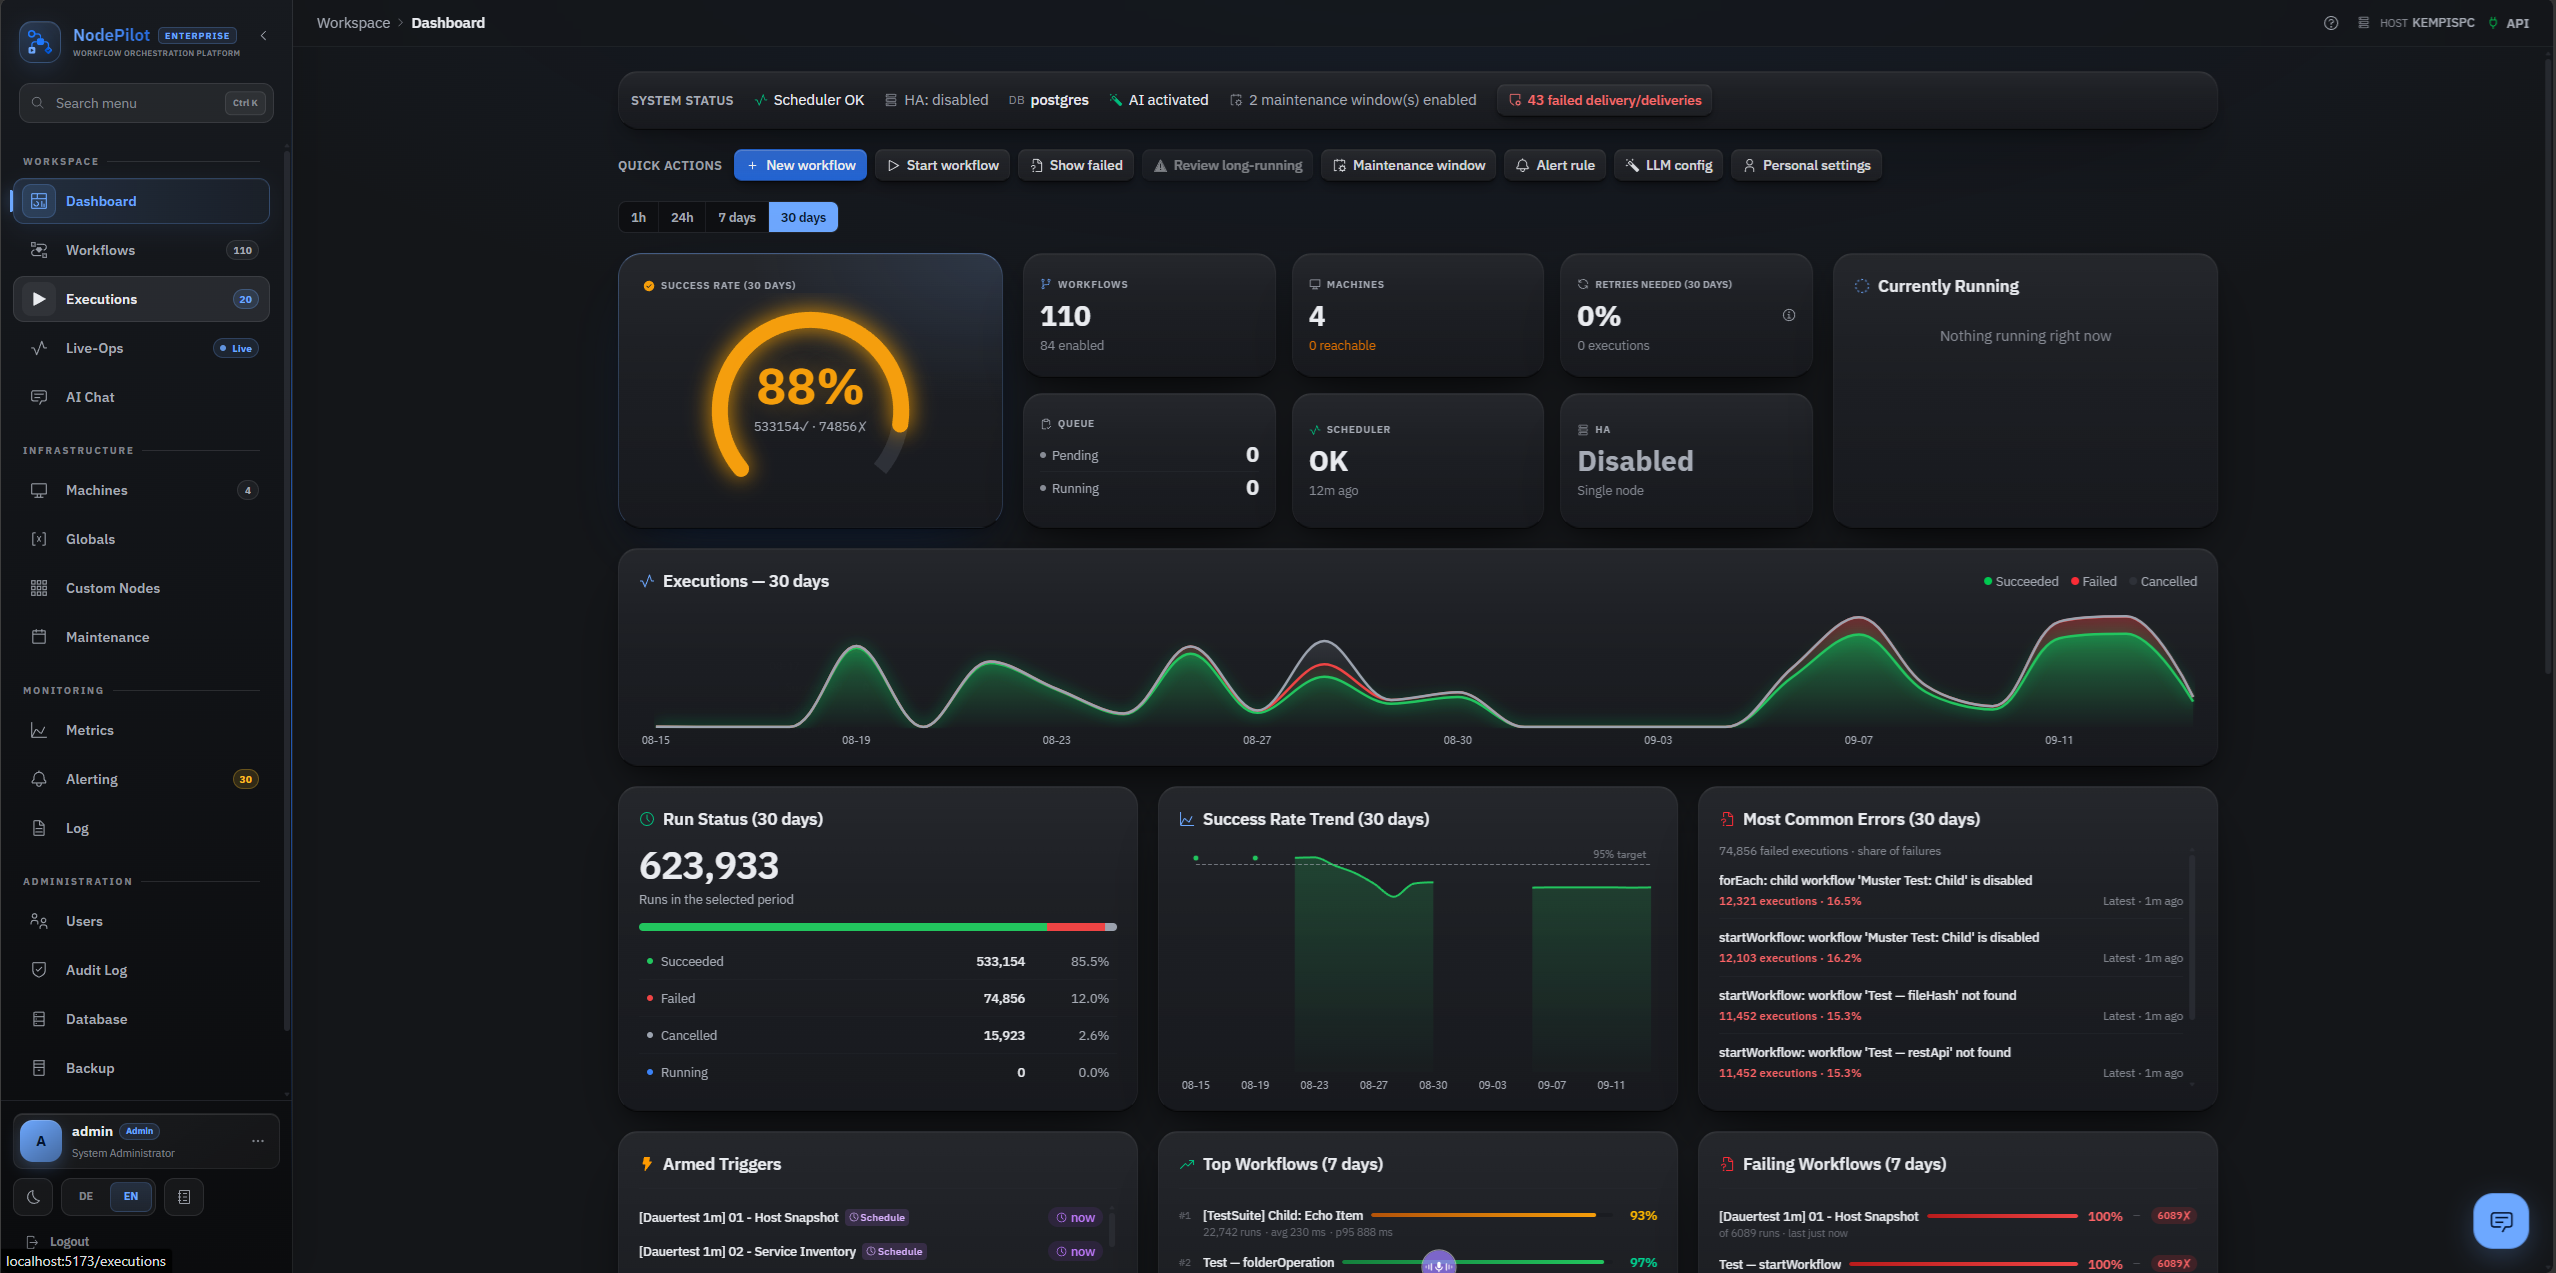
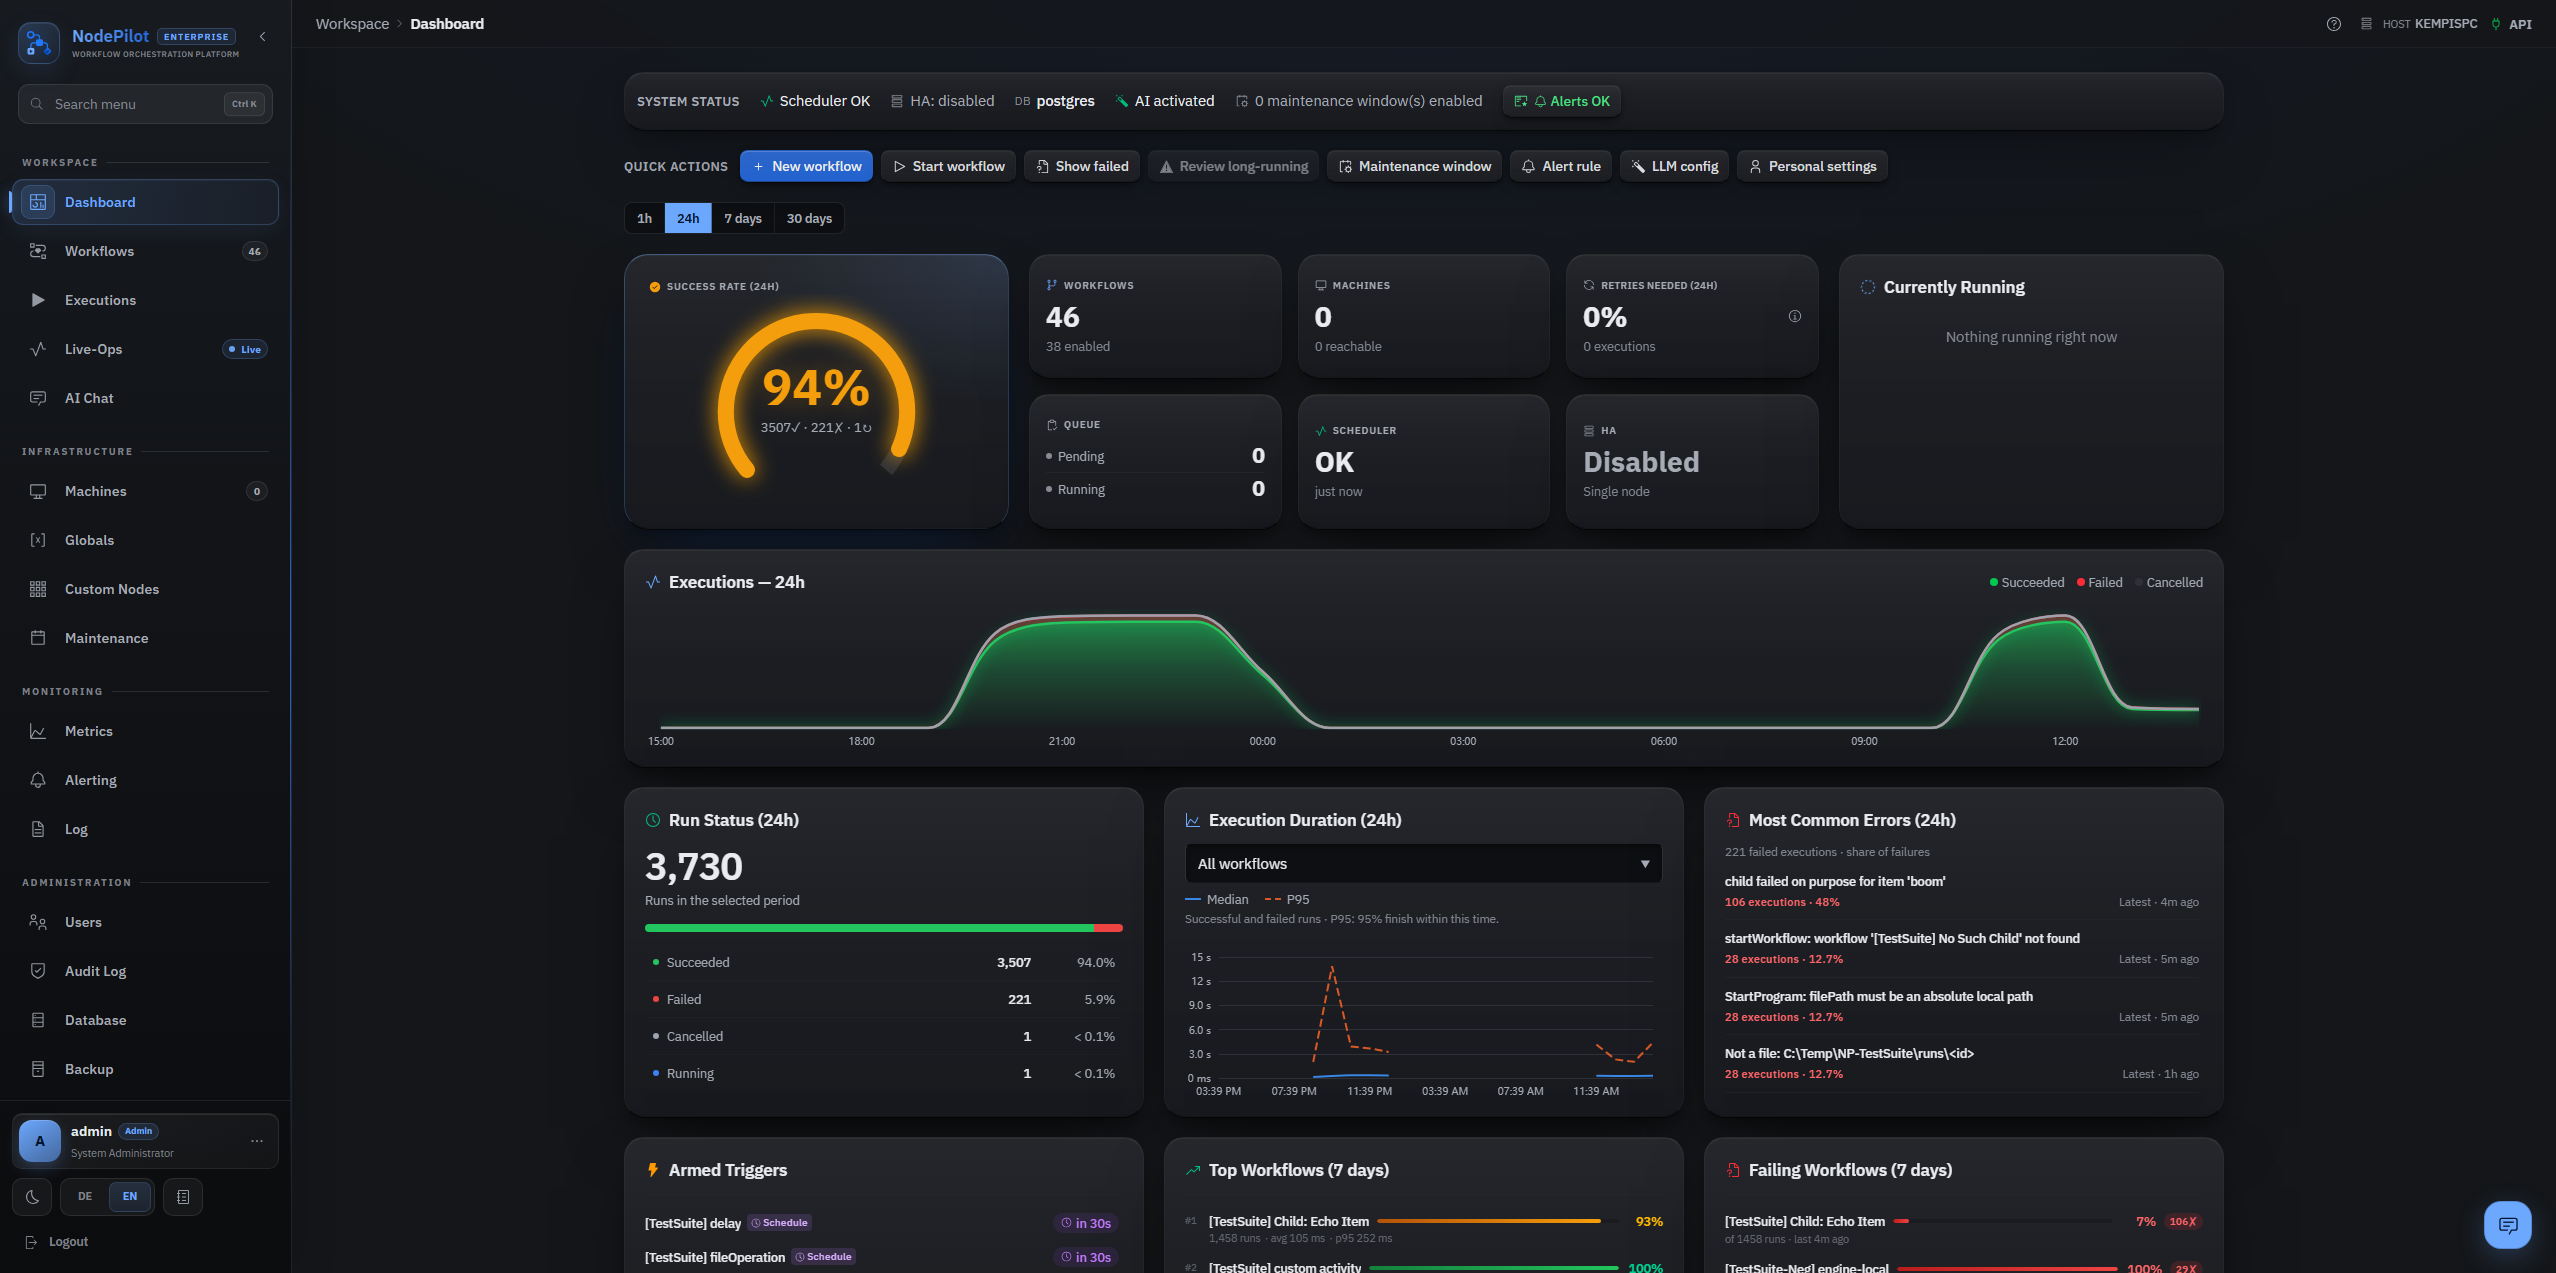
Refresh the dashboard screenshot and correct stale dashboard notes
The README screenshot still showed the success-rate trend that the execution-duration
percentiles replaced; image and alt text now show the current dashboard.

docs/claude-reference.md named a single 30-second TTL for DashboardAggregateCache. The shared
TTL is 150 seconds, and the duration trend is a third entry with its own two minutes. The same
section now describes the rollup's staleness check and bucket retention.

The summary of WorkflowListItemResponse had ended up above WorkflowNameItem, which carried two
summaries while the list item had none.

Refs #375, #381

diff --git a/src/NodePilot.Api/Dtos/WorkflowDtos.cs b/src/NodePilot.Api/Dtos/WorkflowDtos.cs
@@ -125,6 +125,14 @@ public record WorkflowResponse(
 }
 
 /// <summary>
+/// Id and display name only — for surfaces that resolve or offer workflow names without rendering
+/// anything else about them, such as the executions filter. The full list item costs a window
+/// query over execution history, a per-folder permission lookup and a definition-facts resolve,
+/// none of which a name dropdown uses.
+/// </summary>
+public record WorkflowNameItem(Guid Id, string Name);
+
+/// <summary>
 /// One row of <c>GET /api/workflows</c>.
 ///
 /// <para>Everything <see cref="WorkflowResponse"/> carries except <c>DefinitionJson</c>. A
@@ -136,14 +144,6 @@ public record WorkflowResponse(
 /// the definition: whether starting this workflow asks the caller for input. False means it can
 /// be started straight away.</para>
 /// </summary>
-/// <summary>
-/// Id and display name only — for surfaces that resolve or offer workflow names without rendering
-/// anything else about them, such as the executions filter. The full list item costs a window
-/// query over execution history, a per-folder permission lookup and a definition-facts resolve,
-/// none of which a name dropdown uses.
-/// </summary>
-public record WorkflowNameItem(Guid Id, string Name);
-
 public record WorkflowListItemResponse(
     Guid Id, string Name, string? Description,
     int Version, bool IsEnabled, DateTime CreatedAt, DateTime UpdatedAt, string? CreatedBy, string? UpdatedBy)

diff --git a/docs/claude-reference.md b/docs/claude-reference.md
@@ -1181,9 +1181,9 @@ Der Rug ersetzt einen anteiligen Outcome-Stapel, der bei dieser Skala nicht funk
 
 **Dashboard-Query lädt keine Workflow-Definitionen.** Der Endpoint braucht nur Trigger-Metadaten und liest sie aus der denormalisierten Spalte `TriggerTypesJson`; die volle `DefinitionJson` wird ausschließlich für Workflows mit `scheduleTrigger`/`databaseTrigger` nachgeladen (Cron-Ausdruck bzw. Poll-Intervall stehen nur im Graphen). Definitionen sind unbegrenzter Text inklusive aller Inline-Skripte — im Repo-Beispielset 21–42 KB pro Workflow — und die Dashboard-Seite pollt den Endpoint alle 120 s, solange sie offen ist. Die drei Sidebar-Badges hängen **nicht** mehr daran: `useSidebarBadges` liest den eigenen Drei-Zahlen-Endpoint `GET /api/stats/sidebar-counts` (60-s-Poll, folder-gescopte `COUNT(*)`s ohne Zeilen-Materialisierung) — vorher zog die auf jeder Seite gerenderte Sidebar für drei Zahlen das ganze Dashboard-Aggregat. Eine `NULL`-Spalte (Zeile älter als der Boot-Backfill) fällt auf die Definition zurück, damit kein Workflow still aus der Armed-Liste fällt.
 
-**Dashboard-Aggregate sind gecacht, die Antwort nicht.** `DashboardAggregateCache` (Api-Singleton, TTL 30 s) hält die **fenster-skalierenden** Werte — Gesamtzahl, Stundenreihe, Retry-Quote, zusammengefasst in `DashboardHistoricalAggregates`, dazu `/stats/failure-causes` als eigener Eintrag (gemessen die teuerste Einzelabfrage: 3,4 s auf 30 Tagen, danach 0,01 s). Bewusst **kein** Response-Cache: dieselbe Antwort trägt Live-Zustand (laufende Läufe, Queue-Tiefe, Heartbeats) und einen **Admin-only Audit-Feed**, der an `User.IsInRole("Admin")` hängt — ein Eintrag über die ganze Antwort hätte einem Viewer den Feed des vorherigen Admin-Aufrufs geliefert (`DashboardCacheIsolationTests` pinnt das). Der Key trägt Fenster **und** Berechtigungszustand (`ScopeKey`: `all` vs. gehashte, sortierte Ordnerliste — Rechteentzug ändert den Key und wirkt damit sofort). Parallele Misses teilen sich **eine** Berechnung, und die läuft in einem **eigenen DI-Scope**: der auslösende Request darf abbrechen und seinen DbContext entsorgen, während andere noch warten. Ein Fehler wird nie als Antwort gecacht. Der kalte `WorkflowDefinitionFactsCache` wird nach dem Start von `WorkflowDefinitionFactsWarmup` in 50er-Batches gefüllt, damit nicht der erste Benutzer alle Definitionen liest.
+**Dashboard-Aggregate sind gecacht, die Antwort nicht.** `DashboardAggregateCache` (Api-Singleton, TTL **pro Eintrag**) hält die **fenster-skalierenden** Werte — Gesamtzahl, Stundenreihe, Retry-Quote, zusammengefasst in `DashboardHistoricalAggregates`, dazu `/stats/failure-causes` als eigener Eintrag (gemessen die teuerste Einzelabfrage: 3,4 s auf 30 Tagen, danach 0,01 s); beide mit `DashboardCacheSettings.Ttl` (150 s). `/stats/duration-trend` ist ein dritter Eintrag mit fest **2 min**, passend zum Poll-Intervall der Karte. Bewusst **kein** Response-Cache: dieselbe Antwort trägt Live-Zustand (laufende Läufe, Queue-Tiefe, Heartbeats) und einen **Admin-only Audit-Feed**, der an `User.IsInRole("Admin")` hängt — ein Eintrag über die ganze Antwort hätte einem Viewer den Feed des vorherigen Admin-Aufrufs geliefert (`DashboardCacheIsolationTests` pinnt das). Der Key trägt Fenster **und** Berechtigungszustand (`ScopeKey`: `all` vs. gehashte, sortierte Ordnerliste — Rechteentzug ändert den Key und wirkt damit sofort). Parallele Misses teilen sich **eine** Berechnung, und die läuft in einem **eigenen DI-Scope**: der auslösende Request darf abbrechen und seinen DbContext entsorgen, während andere noch warten. Ein Fehler wird nie als Antwort gecacht. Der kalte `WorkflowDefinitionFactsCache` wird nach dem Start von `WorkflowDefinitionFactsWarmup` in 50er-Batches gefüllt, damit nicht der erste Benutzer alle Definitionen liest.
 
-**Vorberechnete Stunden-Buckets sind seit 2026-09-14 die eigentliche Grundlage der Dashboard-Historie.** `ExecutionStatsRollupService` (Api, leader-gated, ~60 s) fasst je **Stunde und Workflow** zusammen: `ExecutionHourlyStat` (Status-Zähler, Retry-Anteil, Dauer-Summe) und `FailureCauseHourlyStat` (normalisierte Fehlergruppen, gekeyt über `MessageHash`). Das Dashboard summiert über maximal 720 Bucket-Stunden statt über Millionen Rohzeilen — die Kosten hängen damit an der Fensterlänge, nicht am Bestand. **Pro Workflow** abgelegt, weil nur so der Folder-Scope (`Workflow.FolderId`) erhalten bleibt und dieselbe Quelle die fixen 7-/14-Tage-Aggregationen bedient. **`IsFinal` ist die Korrektheitsgrenze:** Ein Lauf wird nach `StartedAt` einsortiert, sein Status steht aber später fest (10:55 gestartet, 11:30 fehlgeschlagen) — eine Stunde gilt erst als endgültig, wenn kein Lauf aus ihr mehr offen ist, provisorische Stunden werden neu gerechnet. `DashboardRollupReader` gibt **`null`** zurück, solange `ExecutionStatsRollupState.CoverageStartUtc` das Fenster nicht deckt (Backfill läuft noch); dann rechnet der alte Live-Pfad — langsam, aber korrekt. **`ExecutionsTotal` bleibt bewusst ein Live-`COUNT`**: eine Bucket-Summe zählte nur den abgedeckten Bereich. Abschaltbar über `Stats:Rollup:Enabled`. **Provider-Falle:** Der Live-Pfad gruppiert per `StartedAt.Year/Month/Day/Hour`, was Npgsql auf `timestamptz` zu `date_part` in der **Session-Zeitzone** übersetzt; der Rollup nutzt reine Bereichsvergleiche und ist zeitzonenfest — auf nicht-UTC-Postgres können die Pfade daher abweichen, und der Bucket-Pfad ist der richtige. Tests laufen auf SQLite und zeigen das nicht.
+**Vorberechnete Stunden-Buckets sind seit 2026-09-14 die eigentliche Grundlage der Dashboard-Historie.** `ExecutionStatsRollupService` (Api, leader-gated, ~60 s) fasst je **Stunde und Workflow** zusammen: `ExecutionHourlyStat` (Status-Zähler, Retry-Anteil, Dauer-Summe) und `FailureCauseHourlyStat` (normalisierte Fehlergruppen, gekeyt über `MessageHash`). Das Dashboard summiert über maximal 720 Bucket-Stunden statt über Millionen Rohzeilen — die Kosten hängen damit an der Fensterlänge, nicht am Bestand. **Pro Workflow** abgelegt, weil nur so der Folder-Scope (`Workflow.FolderId`) erhalten bleibt und dieselbe Quelle die fixen 7-/14-Tage-Aggregationen bedient. **`IsFinal` ist die Korrektheitsgrenze:** Ein Lauf wird nach `StartedAt` einsortiert, sein Status steht aber später fest (10:55 gestartet, 11:30 fehlgeschlagen) — eine Stunde gilt erst als endgültig, wenn kein Lauf aus ihr mehr offen ist, provisorische Stunden werden neu gerechnet. `DashboardRollupReader` gibt **`null`** zurück, solange `ExecutionStatsRollupState.CoverageStartUtc` das Fenster nicht deckt (Backfill läuft noch) **oder** `UpdatedAt` älter als `StaleAfter` (10 min) ist — Rollup abgeschaltet oder dauerhaft fehlerhaft, sonst fehlten still alle Stunden seit dem letzten Pass; dann rechnet der alte Live-Pfad — langsam, aber korrekt. **Aufbewahrung ohne eigenen Retention-Dienst:** Jeder Pass löscht Buckets älter als `BucketRetention` (720 h + 48 h, das längste Dashboard-Fenster plus Puffer), zieht `CoverageStartUtc` auf diese Grenze nach und backfillt nie weiter zurück. Der Backfill leert den Change-Tracker nach jedem Tages-Chunk. **`ExecutionsTotal` bleibt bewusst ein Live-`COUNT`**: eine Bucket-Summe zählte nur den abgedeckten Bereich. Abschaltbar über `Stats:Rollup:Enabled`. **Provider-Falle:** Der Live-Pfad gruppiert per `StartedAt.Year/Month/Day/Hour`, was Npgsql auf `timestamptz` zu `date_part` in der **Session-Zeitzone** übersetzt; der Rollup nutzt reine Bereichsvergleiche und ist zeitzonenfest — auf nicht-UTC-Postgres können die Pfade daher abweichen, und der Bucket-Pfad ist der richtige. Tests laufen auf SQLite und zeigen das nicht.
 
 **`DashboardAggregateWarmup` macht den Cache auch für den *ersten* Besucher wirksam.** Ein reiner TTL-Cache half nur dem zweiten; der Warmup berechnet 24 h / 7 d / 30 d einmal nach dem Start vor (in dieser Reihenfolge — das Dashboard öffnet immer auf 24 h). **Kostenregel, die das Design trägt:** `PrimeAsync` zählt **nicht** als Anfrage, und der 20-s-Sweep erneuert ausschließlich Einträge, die jemand tatsächlich abgerufen hat (`LastRequestedUtc` innerhalb von 4 min) und die binnen 45 s ablaufen. Eine Instanz, die niemand ansieht, zahlt damit genau einen Durchlauf und danach nichts; ein geschlossenes Dashboard kühlt ab, seine Einträge werden verworfen. TTL 150 s liegt bewusst über dem 120-s-Poll der Seite, sonst wäre jeder Poll ein Miss. Nicht leader-gated (prozesslokaler Cache), abschaltbar über `Dashboard:Warmup:Enabled`. Weil der Warmup dieselbe Berechnung später wiederholt, nehmen `DashboardHistoricalAggregates.ComputeAsync` und `DashboardFailureCauses.ReadWindowAsync` die **Fensterlänge** statt eines fixen Start/Ende-Paars — ein eingefangener Zeitstempel würde das Fenster beim ersten Aufruf einfrieren.
 

diff --git a/README.md b/README.md
@@ -42,7 +42,7 @@ See SCOrch import, the Workflow Designer, execution history, Live Ops, logs and 
 <details>
 <summary><b>📊 Dashboard</b></summary>
 
-![Dashboard — run status, success-rate trend, p95 top workflows, quick actions](docs/images/dashboard-dark.png)
+![Dashboard — run status, execution-duration percentiles, most common errors, quick actions](docs/images/dashboard-dark.png)
 
 </details>
 
